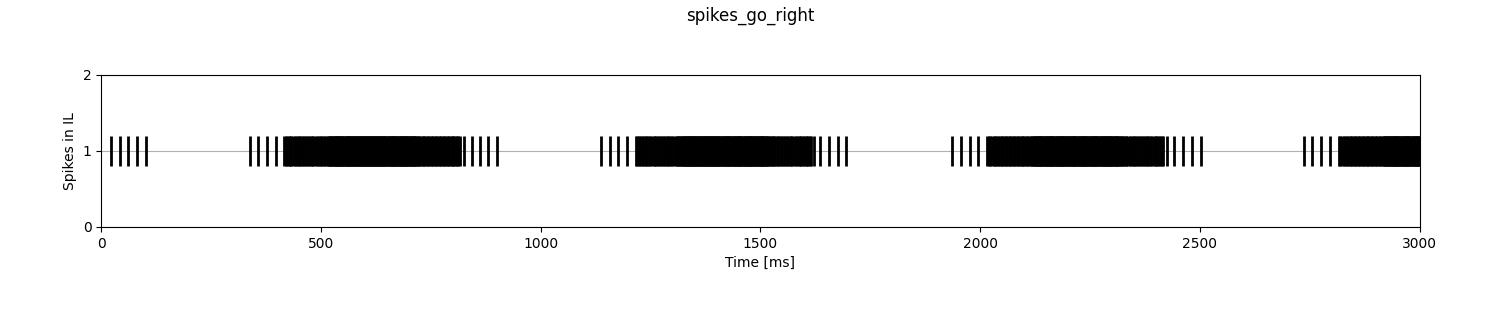
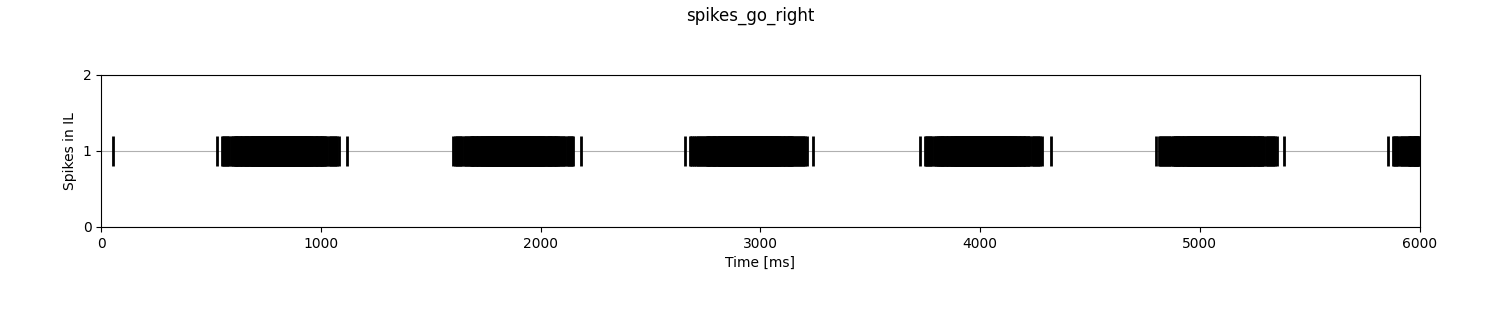
integrator with params

diff --git a/experiments/closed_loop/integrator.py b/experiments/closed_loop/integrator.py
@@ -14,6 +14,7 @@ import numpy as np
 from random import randint, random
 from struct import pack
 from time import sleep
+import sys
 from threading import Thread
 
 import matplotlib
@@ -41,6 +42,20 @@ for  i in [8,16,32,64,128,256,512,640]:
 #                                                           SPIF SETUP                                                          #
 #################################################################################################################################
 
+
+
+if len(sys.argv) != 3:
+    print("python3 closed_loop_no_spif.py <duration> <width>")
+    quit()
+else:
+    try:
+        RUN_TIME = 1000*int(sys.argv[1])
+        USER_WIDTH = int(sys.argv[2])
+    except:
+        print("Something went wrong with the arguments")
+        quit()
+print("\n About to start things ... \n")
+
 # Device parameters are "pipe", "chip_coords", "ip_address", "port"
 DEVICE_PARAMETERS = (0, (0, 0), "172.16.223.98", 3333)
 
@@ -52,7 +67,7 @@ Y_SHIFT = 0
 X_SHIFT = 16
 
 if send_fake_spikes:
-    WIDTH = 64
+    WIDTH = USER_WIDTH
     HEIGHT = round(WIDTH*3/4)
 else:
     WIDTH = 346
@@ -72,12 +87,11 @@ WEIGHT = 100
 SLEEP_TIME = 0.005
 N_PACKETS = 1000
 
-# Run time if send_fake_spikes is False
-RUN_TIME = 30000 #[ms]
 
 print(f"SPIF : {DEVICE_PARAMETERS[2]}:{DEVICE_PARAMETERS[3]}")
 print(f"Pixel Matrix : {WIDTH}x{HEIGHT} (Real={not send_fake_spikes})")
 print(f"Run Time : {RUN_TIME}")
+# time.sleep(10)
 # pdb.set_trace()
 
 #################################################################################################################################
@@ -669,7 +683,8 @@ def rt_plot(i, axs, t, x, y, mn_r, mn_l, mn_u, mn_d, obj_xy, spike_count):
     axs[4].set_ylim([0,max_y])
 
 
-    axs[0].set_title("Motor Neurons", fontsize='xx-large')
+    # axs[0].set_title("Object Trajectory", fontsize='xx-large')
+    # axs[1].set_title("Motor Neurons", fontsize='xx-large')
 
 def oscilloscope():
 
@@ -701,7 +716,6 @@ if __name__ == '__main__':
 
     global end_of_sim, input_q, output_q, spike_q, object_q
     
-    print("\n About to start things ... \n")
 
     time.sleep(3)
 
